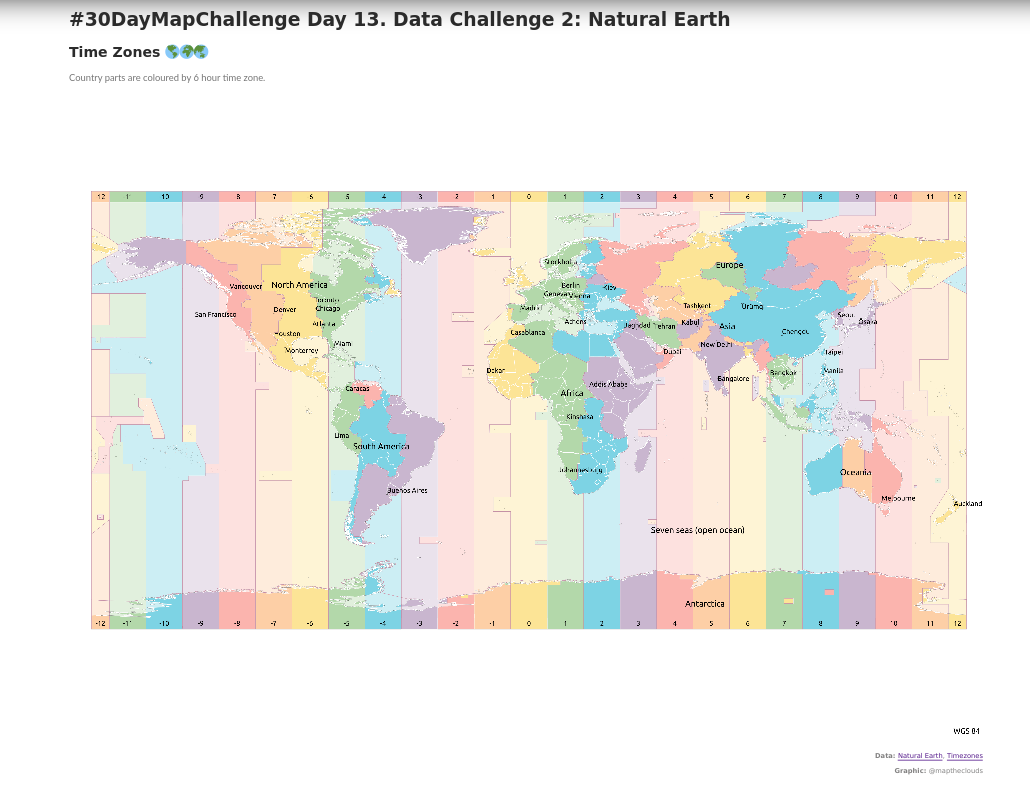
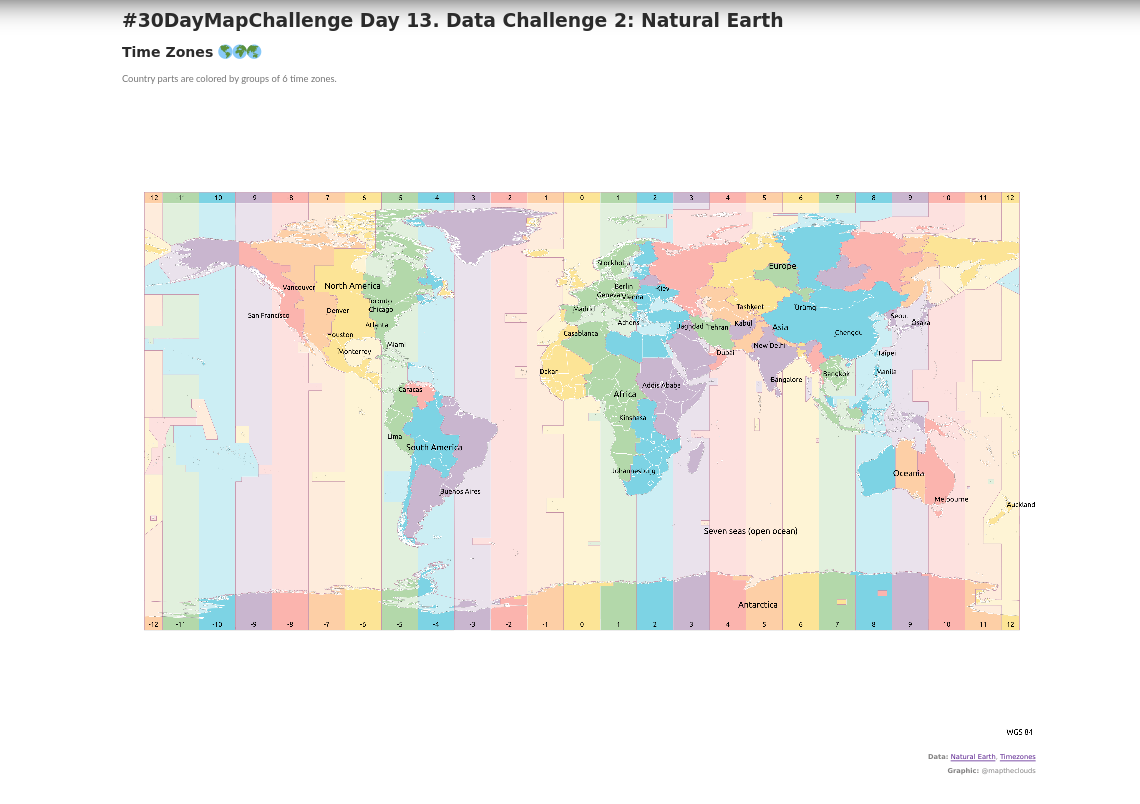
fix: Update earthnotflat

diff --git a/earthnotflat/view.html b/earthnotflat/view.html
@@ -5,13 +5,13 @@
     <meta charset="UTF-8" />
     <meta content="utf-8" http-equiv="encoding" />
     <meta name="viewport" content="width=device-width, initial-scale=1.0" />
-    <title>#30DayMapChallenge Day 13. Data Challenge 2: Natural Earth</title>
+    <title>#30DayMapChallenge Day 28. The Earth is not flat</title>
 
-    <meta property="og:title" content="#30DayMapChallenge Day 13. Data Challenge 2: Natural Earth" />
+    <meta property="og:title" content="#30DayMapChallenge Day 28. The Earth is not flat" />
     <meta property="og:type" content="article" />
     <meta
       property="og:url"
-      content="https://maptheclouds.com/playground/30-day-map-challenge/naturalearth"
+      content="https://maptheclouds.com/playground/30-day-map-challenge/earthnotflat"
     />
     <meta property="og:description" content="#30DayMapChallenge on Twitter" />
     <meta property="article:publisher" content="https://maptheclouds.com" />
@@ -19,7 +19,7 @@
     <meta property="article:tag" content="Graphic" />
     <meta
       property="og:image"
-      content="https://maptheclouds.com/playground/30-day-map-challenge/naturalearth/img/og_1400_900.png"
+      content="https://maptheclouds.com/playground/30-day-map-challenge/earthnotflat/img/og_1400_900.png"
     />
     <meta property="og:image:type" content="image/png" />
     <meta property="og:image:width" content="1400" />
@@ -27,7 +27,7 @@
     <meta property="twitter:card" content="summary_large_image" />
     <meta
       property="twitter:image"
-      content="https://maptheclouds.com/playground/30-day-map-challenge/naturalearth/img/og_1400_900.png"
+      content="https://maptheclouds.com/playground/30-day-map-challenge/earthnotflat/img/og_1400_900.png"
     />
     <meta property="twitter:site" content="@maptheclouds" />
 
@@ -41,10 +41,11 @@
       <div class="centered">
         <div class="content">
           <div class="title">
-            <h1>#30DayMapChallenge Day 13. Data Challenge 2: Natural Earth</h1>
-            <h2>Time Zones<span>🌍</span></h2>
+            <h1>#30DayMapChallenge Day 28. The Earth is not flat</h1>
+            <h2>Projected Time Zones <span>🌐</span></h2>
             <div class="description">
-              <p>Country parts are coloured by 6 hour time zone.</p>
+              <p>Testing various projections.</p>
+              <p>Country parts are colored by groups of 6 time zones.</p>
             </div>
           </div>
           <div class="mps-inline-block wide">
@@ -70,7 +71,7 @@
           <div class="below">
             <div>
               <strong>Data: </strong> 
-              <a href="https://www.naturalearthdata.com/downloads/">Natural Earth</a>, <a href="https://www.naturalearthdata.com/downloads/10m-cultural-vectors/timezones/">Timezones</a> <br />
+              <a href="https://www.earthnotflatdata.com/downloads/">Natural Earth</a>, <a href="https://www.earthnotflatdata.com/downloads/10m-cultural-vectors/timezones/">Timezones</a> <br />
             </div>
             <div>
               <strong>Graphic: </strong> @maptheclouds

diff --git a/earthnotflat/index.html b/earthnotflat/index.html
@@ -5,13 +5,13 @@
     <meta charset="UTF-8" />
     <meta content="utf-8" http-equiv="encoding" />
     <meta name="viewport" content="width=device-width, initial-scale=1.0" />
-    <title>#30DayMapChallenge Day 13. Data Challenge 2: Natural Earth</title>
+    <title>#30DayMapChallenge Day 28. The Earth is not flat</title>
 
-    <meta property="og:title" content="#30DayMapChallenge Day 13. Data Challenge 2: Natural Earth" />
+    <meta property="og:title" content="#30DayMapChallenge Day 28. The Earth is not flat" />
     <meta property="og:type" content="article" />
     <meta
       property="og:url"
-      content="https://maptheclouds.com/playground/30-day-map-challenge/naturalearth"
+      content="https://maptheclouds.com/playground/30-day-map-challenge/earthnotflat"
     />
     <meta property="og:description" content="#30DayMapChallenge on Twitter" />
     <meta property="article:publisher" content="https://maptheclouds.com" />
@@ -19,7 +19,7 @@
     <meta property="article:tag" content="Graphic" />
     <meta
       property="og:image"
-      content="https://maptheclouds.com/playground/30-day-map-challenge/naturalearth/img/og_1400_900.png"
+      content="https://maptheclouds.com/playground/30-day-map-challenge/earthnotflat/img/og_1400_900.png"
     />
     <meta property="og:image:type" content="image/png" />
     <meta property="og:image:width" content="1400" />
@@ -27,7 +27,7 @@
     <meta property="twitter:card" content="summary_large_image" />
     <meta
       property="twitter:image"
-      content="https://maptheclouds.com/playground/30-day-map-challenge/naturalearth/img/og_1400_900.png"
+      content="https://maptheclouds.com/playground/30-day-map-challenge/earthnotflat/img/og_1400_900.png"
     />
     <meta property="twitter:site" content="@maptheclouds" />
 
@@ -41,7 +41,7 @@
       <div class="centered">
         <div class="content">
           <div class="title">
-            <h1>#30DayMapChallenge Day 13. Data Challenge 2: Natural Earth</h1>
+            <h1>#30DayMapChallenge Day 28. The Earth is not flat</h1>
             <h2>Projected Time Zones <span>🌐</span></h2>
             <div class="description">
               <p>Testing various projections.</p>
@@ -71,7 +71,7 @@
           <div class="below">
             <div>
               <strong>Data: </strong> 
-              <a href="https://www.naturalearthdata.com/downloads/">Natural Earth</a>, <a href="https://www.naturalearthdata.com/downloads/10m-cultural-vectors/timezones/">Timezones</a> <br />
+              <a href="https://www.earthnotflatdata.com/downloads/">Natural Earth</a>, <a href="https://www.earthnotflatdata.com/downloads/10m-cultural-vectors/timezones/">Timezones</a> <br />
             </div>
             <div>
               <strong>Graphic: </strong> @maptheclouds
